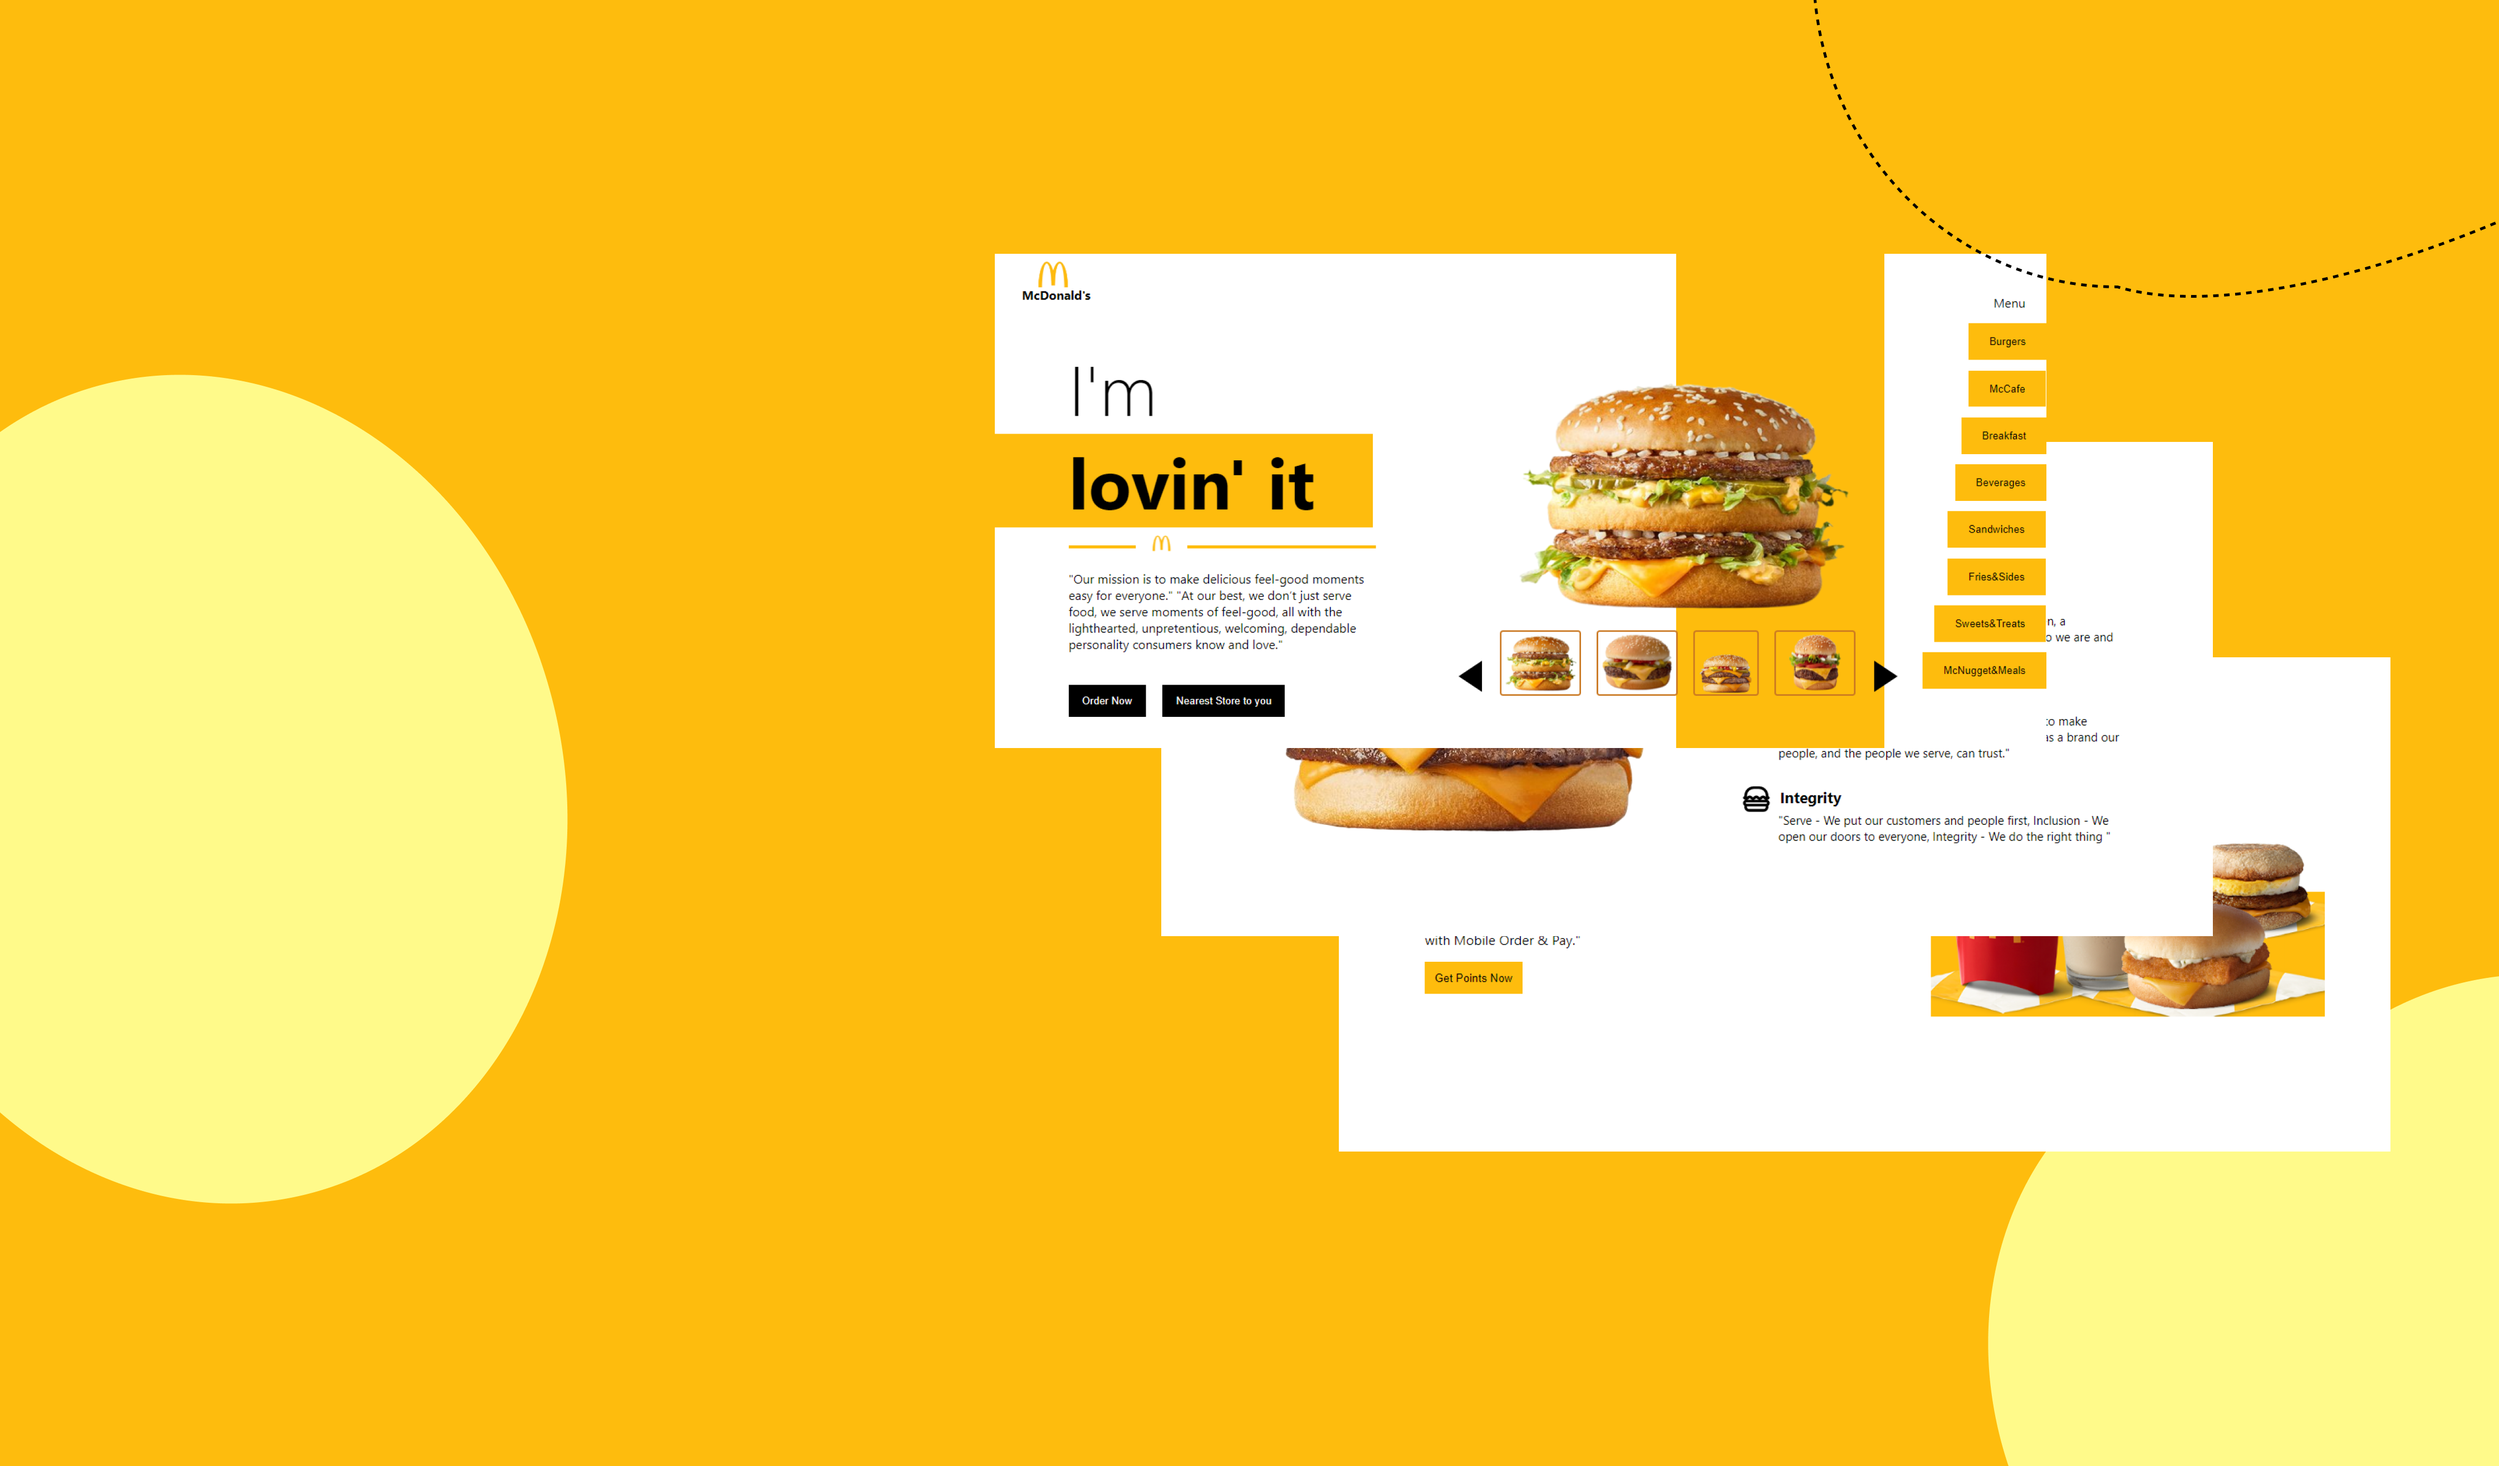
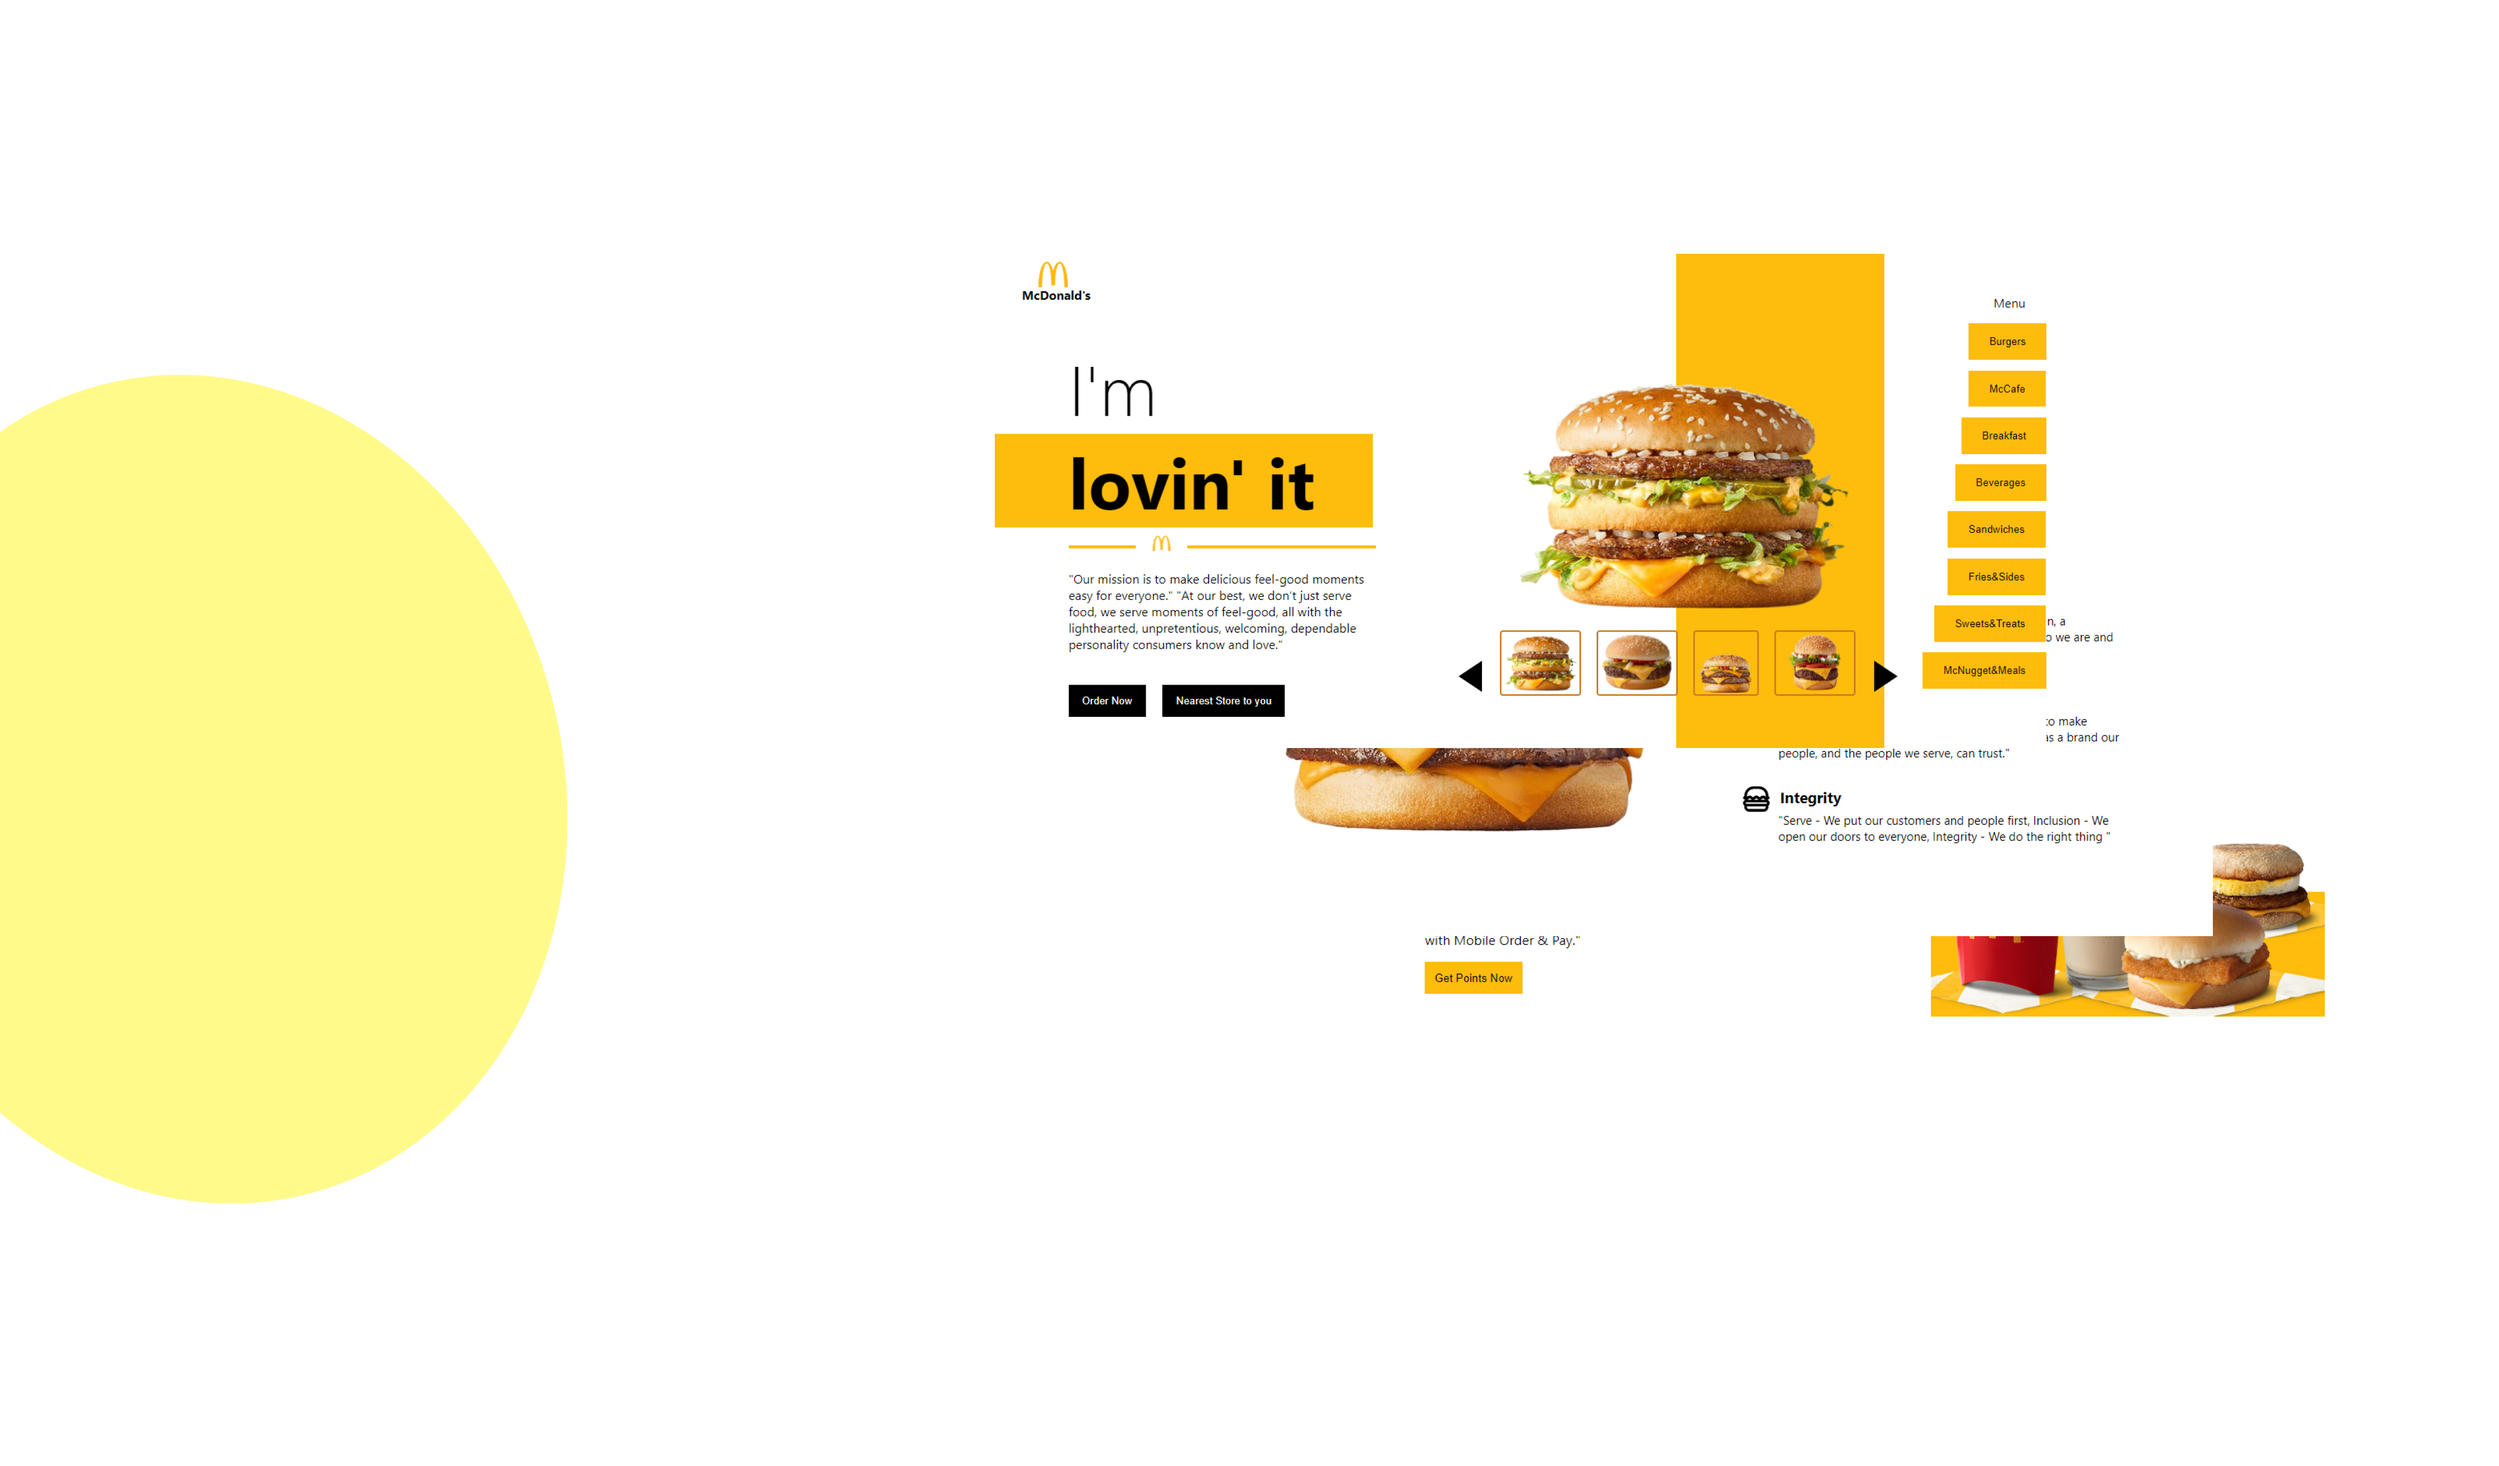
update

diff --git a/myworks.css b/myworks.css
@@ -19,9 +19,8 @@
 
 .workmainn {
     display: flex;
-    background-color: #C5C9EE;
-    margin-top: 20%;
-    margin-bottom: 30%;
+    background-color: #FEBC0D;
+    margin-top: 30%;
 }
 
 .workmain1 {
@@ -34,16 +33,20 @@
     margin-left: 2%;
 }
 
+
 .workmain2 h2 {
-    margin-left: 35%;
+    margin-left: 10%;
+    margin-right: 10%;
 }
 
 .workmain2 p {
-    margin-left: 35%;
+    margin-left: 10%;
+    margin-right: 10%;
 }
 
 .workmain2 button {
-    margin-left: 35%;
+    margin-left: 10%;
+    margin-right: 10%;
 }
 
 .workimg {
@@ -52,9 +55,10 @@
     margin-bottom: -40%;
 }
 
-.workimg3 {
+.workimg2 {
     width: 200%;
-    margin-top: -20%;
+    margin-top: 0%;
+    margin-left: -10%;
     margin-bottom: -40%;
 }
 

diff --git a/myworks.html b/myworks.html
@@ -121,7 +121,7 @@
                  
                  
                      <main class="workmainn">
-                       <div  class="workmain3"><img class="workimg" src="image/work 5.png" alt=""></div>
+                       <div  class="workmain3"><img class="workimg2" src="image/burg2.png" alt=""></div>
                        <div class="workmain2 maind2">
                           <h2>
                             Lorem, ipsum dolor sit amet consectetur adipisicing elit.
